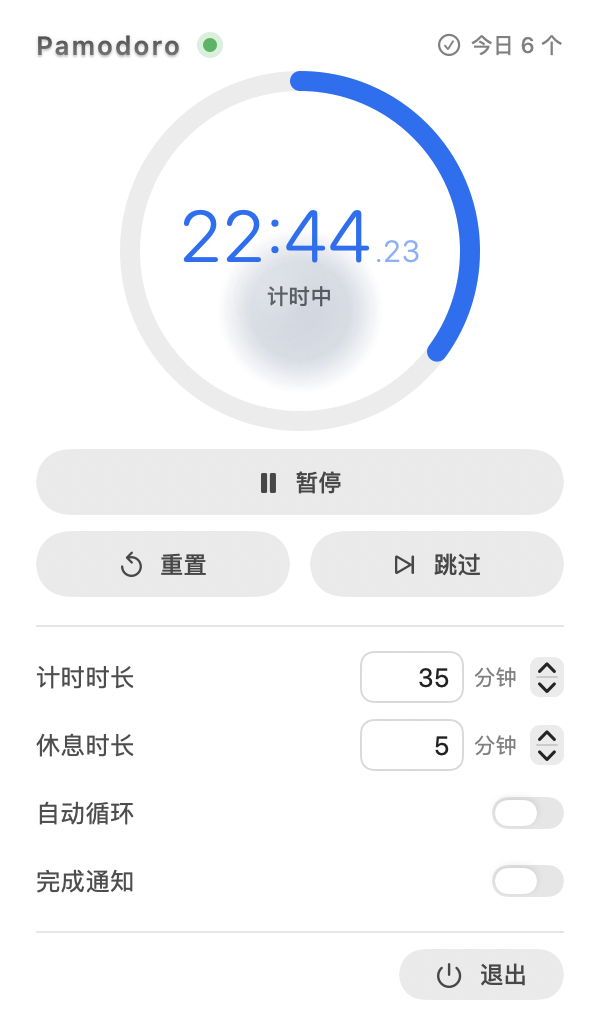
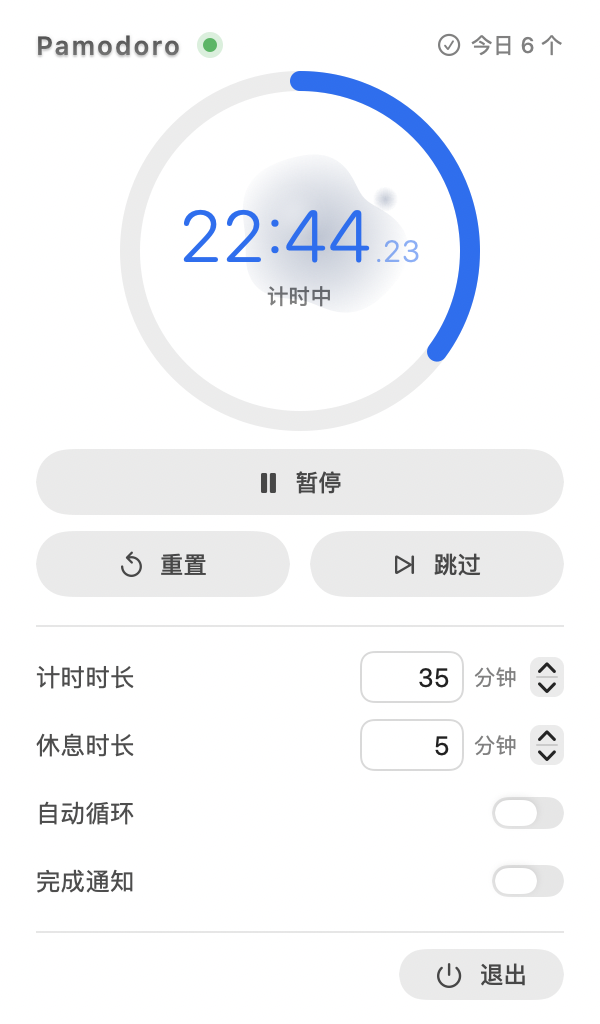
计时图标换成圆环箭头矢量图标；水银改为不规则流动液团+卫星液滴

Changed region(s): [[0.39, 0.1562, 0.66, 0.375]]

diff --git a/Sources/DialLiquid.swift b/Sources/DialLiquid.swift
@@ -1,8 +1,7 @@
 import SwiftUI
 
-/// 表盘背景里的「水银」——克制的液体感：
-/// 参照 iOS 26/27 Liquid Glass 的做法：材质本身是低对比、强扩散的透镜层，
-/// 高光含蓄、边缘完全化开，只靠缓慢的形变和位移让人感觉到「在流动」。
+/// 表盘背景里的水银：一个不规则、缓慢流动的液团 + 一颗绕行的卫星液滴。
+/// 边缘保持柔化（不出现硬轮廓），靠形变和位移体现「液体」。
 struct DialLiquid: View {
 
     @Environment(\.colorScheme) private var colorScheme
@@ -15,47 +14,63 @@ struct DialLiquid: View {
                 let dialRadius = min(size.width, size.height) / 2
                 let dark = colorScheme == .dark
 
-                // 缓慢漂移（周期约 40 秒，几乎察觉不到但一直在动）
-                let driftX = sin(t * 0.155) * dialRadius * 0.22
-                let driftY = center.y + dialRadius * 0.30 + cos(t * 0.115) * dialRadius * 0.10
-                let blobCenter = CGPoint(x: center.x + driftX, y: driftY)
-                let blobRadius = dialRadius * 0.52
+                let body = dark ? Color(white: 0.94) : Color(red: 0.44, green: 0.51, blue: 0.63)
+                let alpha: Double = dark ? 0.34 : 0.46
 
-                // 有机外形：边缘缓慢起伏，但整体仍是一团
+                // 主液团：漂移 + 不规则形变
+                let cx = center.x + CGFloat(sin(t * 0.21) * dialRadius * 0.16)
+                let cy = center.y + CGFloat(cos(t * 0.17) * dialRadius * 0.14)
+                let baseR = dialRadius * 0.46
+
                 var path = Path()
-                let steps = 160
+                let steps = 180
                 for i in 0...steps {
                     let angle = Double(i) / Double(steps) * 2 * Double.pi
                     let wobble = 1.0
-                        + 0.045 * sin(2 * angle + t * 0.18)
-                        + 0.030 * sin(3 * angle - t * 0.13)
-                    let radius = blobRadius * wobble
-                    let point = CGPoint(x: blobCenter.x + CGFloat(cos(angle) * radius),
-                                        y: blobCenter.y + CGFloat(sin(angle) * radius))
+                        + 0.12 * sin(2 * angle + t * 0.9)
+                        + 0.08 * sin(3 * angle - t * 0.7)
+                        + 0.05 * sin(5 * angle + t * 1.3)
+                    let r = baseR * wobble
+                    let point = CGPoint(x: cx + CGFloat(cos(angle) * r),
+                                        y: cy + CGFloat(sin(angle) * r))
                     if i == 0 { path.move(to: point) } else { path.addLine(to: point) }
                 }
                 path.closeSubpath()
 
-                // 本体：低对比的银灰，径向在边缘之前就淡出（不出现硬边）
-                let core = dark ? Color(white: 0.92) : Color(red: 0.52, green: 0.58, blue: 0.68)
-                let body = Gradient(stops: [
-                    .init(color: core.opacity(dark ? 0.30 : 0.42), location: 0.00),
-                    .init(color: core.opacity(dark ? 0.24 : 0.34), location: 0.55),
-                    .init(color: core.opacity(0.0), location: 0.92),
+                let bodyGradient = Gradient(colors: [
+                    body.opacity(alpha),
+                    body.opacity(alpha * 0.55),
+                    body.opacity(0.0),
                 ])
-                context.fill(path, with: .radialGradient(body,
-                                                         center: blobCenter,
+                context.fill(path, with: .radialGradient(bodyGradient,
+                                                         center: CGPoint(x: cx, y: cy),
                                                          startRadius: 0,
-                                                         endRadius: blobRadius * 1.02))
+                                                         endRadius: baseR * 1.18))
 
-                // 含蓄的高光：一块柔和的偏移亮部，随液体缓慢移动
+                // 卫星液滴：绕着主液团缓慢绕行
+                let satelliteRadius = baseR * (0.20 + 0.04 * sin(t * 0.5))
+                let sx = cx + CGFloat(cos(t * 0.31) * baseR * 0.92)
+                let sy = cy + CGFloat(sin(t * 0.27) * baseR * 0.92)
+                let satelliteGradient = Gradient(colors: [
+                    body.opacity(alpha * 0.9),
+                    body.opacity(0.0),
+                ])
+                context.fill(Path(ellipseIn: CGRect(x: sx - satelliteRadius,
+                                                    y: sy - satelliteRadius,
+                                                    width: satelliteRadius * 2,
+                                                    height: satelliteRadius * 2)),
+                             with: .radialGradient(satelliteGradient,
+                                                   center: CGPoint(x: sx, y: sy),
+                                                   startRadius: 0,
+                                                   endRadius: satelliteRadius))
+
+                // 高光：跟随主液团缓慢移动，增加水银的镜面感
                 var highlight = context
-                highlight.addFilter(.blur(radius: 9))
-                let hlRadius = blobRadius * 0.34
-                let hlCenter = CGPoint(x: blobCenter.x - blobRadius * 0.26,
-                                       y: blobCenter.y - blobRadius * 0.24)
+                highlight.addFilter(.blur(radius: 4))
+                let hlRadius = baseR * 0.30
+                let hlCenter = CGPoint(x: cx - baseR * 0.30, y: cy - baseR * 0.28)
                 let hlGradient = Gradient(colors: [
-                    Color.white.opacity(dark ? 0.26 : 0.62),
+                    Color.white.opacity(dark ? 0.16 : 0.55),
                     Color.white.opacity(0.0),
                 ])
                 highlight.fill(Path(ellipseIn: CGRect(x: hlCenter.x - hlRadius,
@@ -67,11 +82,9 @@ struct DialLiquid: View {
                                                      startRadius: 0,
                                                      endRadius: hlRadius))
             }
-            // 整体再糊一层：边缘彻底化进背景，只在明暗上留下流动的痕迹
-            .blur(radius: 7)
+            .blur(radius: 3)
         }
         .clipShape(Circle())
         .allowsHitTesting(false)
-        .opacity(0.95)
     }
 }

diff --git a/Sources/StatusGlyph.swift b/Sources/StatusGlyph.swift
@@ -1,0 +1,59 @@
+import AppKit
+
+/// 状态栏用的矢量模板图标（16pt 画布，字形约 14pt）。
+enum StatusGlyph {
+
+    /// 计时：带箭头的圆环 + 指针
+    static let timer: NSImage = make { _ in
+        NSColor.black.setStroke()
+        NSColor.black.setFill()
+
+        let center = NSPoint(x: 8.0, y: 8.0)
+        let radius: CGFloat = 5.4
+
+        // 圆环：从 -21° 逆时针画 301°，在右下留出缺口放箭头
+        let arc = NSBezierPath()
+        arc.appendArc(withCenter: center, radius: radius,
+                      startAngle: -21, endAngle: -80, clockwise: false)
+        arc.lineWidth = 1.55
+        arc.lineCapStyle = .round
+        arc.stroke()
+
+        // 箭头：在 -21° 处，沿逆时针切线方向
+        let angle = -21.0 * Double.pi / 180.0
+        let tip = NSPoint(x: center.x + CGFloat(cos(angle)) * radius,
+                          y: center.y + CGFloat(sin(angle)) * radius)
+        let tangent = CGPoint(x: -sin(angle), y: cos(angle))
+        let normal = CGPoint(x: cos(angle), y: sin(angle))
+        let arrow = NSBezierPath()
+        arrow.move(to: NSPoint(x: tip.x + tangent.x * 2.0, y: tip.y + tangent.y * 2.0))
+        arrow.line(to: NSPoint(x: tip.x + normal.x * 1.5, y: tip.y + normal.y * 1.5))
+        arrow.line(to: NSPoint(x: tip.x - normal.x * 1.5, y: tip.y - normal.y * 1.5))
+        arrow.close()
+        arrow.fill()
+
+        // 指针
+        let longHand = NSBezierPath()
+        longHand.move(to: center)
+        longHand.line(to: NSPoint(x: center.x, y: center.y + 3.9))
+        longHand.lineWidth = 1.45
+        longHand.lineCapStyle = .round
+        longHand.stroke()
+
+        let shortHand = NSBezierPath()
+        shortHand.move(to: center)
+        shortHand.line(to: NSPoint(x: center.x + 2.7, y: center.y - 2.1))
+        shortHand.lineWidth = 1.45
+        shortHand.lineCapStyle = .round
+        shortHand.stroke()
+    }
+
+    private static func make(_ draw: @escaping (NSRect) -> Void) -> NSImage {
+        let image = NSImage(size: NSSize(width: 16, height: 16), flipped: false) { rect in
+            draw(rect)
+            return true
+        }
+        image.isTemplate = true
+        return image
+    }
+}

diff --git a/Sources/main.swift b/Sources/main.swift
@@ -41,7 +41,7 @@ final class AppDelegate: NSObject, NSApplicationDelegate, NSPopoverDelegate {
     private static var statusItemLength: CGFloat {
         let font = NSFont.monospacedDigitSystemFont(ofSize: 12.5, weight: .regular)
         let textWidth = ceil(NSAttributedString(string: "888:88", attributes: [.font: font]).size().width)
-        let timerIconWidth = ceil(StatusIcon.face.size.width)
+        let timerIconWidth = ceil(StatusIcon.timer.size.width)
         let coffeeIconWidth = ceil(StatusIcon.coffee.size.width)
         // 两种状态都是「图标 + 时间」，取更宽的一档
         return max(timerIconWidth, coffeeIconWidth) + textWidth + 20
@@ -59,7 +59,7 @@ final class AppDelegate: NSObject, NSApplicationDelegate, NSPopoverDelegate {
             let font = NSFont.monospacedDigitSystemFont(ofSize: 12.5, weight: .regular)
             button.attributedTitle = NSAttributedString(string: " " + timeText, attributes: [.font: font])
         }
-        let icon = isRest ? StatusIcon.coffee : StatusIcon.face
+        let icon = isRest ? StatusIcon.coffee : StatusIcon.timer
         if button.image !== icon {
             button.image = icon
         }
@@ -266,7 +266,7 @@ final class AppDelegate: NSObject, NSApplicationDelegate, NSPopoverDelegate {
 
 
         if let prefix = env["POMODORO_DUMP_ICONS"] {
-            let icons: [(String, NSImage)] = [("face", PixelIcon.face), ("coffee", PixelIcon.coffee)]
+            let icons: [(String, NSImage)] = [("timer", StatusGlyph.timer), ("coffee", PixelIcon.coffee)]
             for (name, icon) in icons {
                 let scale: CGFloat = 8
                 let size = NSSize(width: icon.size.width * scale, height: icon.size.height * scale)

diff --git a/Sources/StatusIcon.swift b/Sources/StatusIcon.swift
@@ -1,9 +1,9 @@
 import AppKit
 
-/// 菜单栏图标：8-bit 像素模板图，跟随菜单栏深浅色与高亮自动反色。
+/// 菜单栏图标：模板图，跟随菜单栏深浅色与高亮自动反色。
 enum StatusIcon {
-    /// 计时状态：像素笑脸
-    static let face: NSImage = PixelIcon.face
-    /// 休息状态：冒热气的咖啡杯
+    /// 计时状态：圆环箭头 + 指针
+    static let timer: NSImage = StatusGlyph.timer
+    /// 休息状态：冒热气的像素咖啡杯
     static let coffee: NSImage = PixelIcon.coffee
 }

diff --git a/README.md b/README.md
@@ -75,7 +75,7 @@ open /Applications/Pomodoro.app
 
 ## 功能
 
-- **菜单栏常驻倒计时**：计时状态是像素笑脸 + `24:59`，休息状态换成冒热气的像素咖啡杯 + `4:10`
+- **菜单栏常驻倒计时**：计时状态是圆环计时器图标 + `24:59`，休息状态换成冒热气的像素咖啡杯 + `4:10`
 - **毫秒显示**：面板里秒后面跟两位毫秒（`29:13.99`，50fps 刷新）；状态栏仍只显示到秒
 - **点击开面板**：环形进度、大号等宽时间、胶囊按钮；右键图标可直接退出
 - **点击表盘**：直接点圆形表盘即可开始 / 暂停 / 继续（悬停时光标变手型、状态文字提示当前动作）
@@ -116,16 +116,16 @@ rm -rf /Applications/Pomodoro.app
 
 - **状态栏**：`NSStatusItem` + 固定宽度（按两种像素图标里更宽的一档算），倒计时位数在
   `5:00` / `25:00` / `180:00` 之间变化都不会让 item 伸缩——否则锚定其上的面板会跟着左右跳。
-- **状态栏图标**：`PixelIcon` 用 16×16 字符画渲染成模板位图（每格 2×2 设备像素，2x 屏上边缘是硬的）——
-  计时是一个像素笑脸（参考图简化版），休息是冒热气的咖啡杯；模板渲染，深浅色自动反色。
+- **状态栏图标**：计时用 `StatusGlyph` 矢量绘制的「圆环箭头 + 指针」计时器（16pt 画布），
+  休息用 `PixelIcon` 的 8-bit 咖啡杯；两者都是模板图，深浅色与高亮自动反色。
 - **面板**：`NSPopover` + SwiftUI。`NSPopover` 自带的菜单栏定位会把面板顶出屏幕上沿
   （顶部被裁），因此另做了屏幕几何校正，把面板夹在图标正下方与可见区域内。
 - **统一配色**：表盘与主按钮在任何状态都是「浅色底 + 强调色文字 + 细描边」，
   状态差异交给左上角运行灯（绿 = 计时中，红 = 暂停 / 待机）和进度环；深色模式换成深色底。
 - **标题**：左上角 `Pamodoro` 做了刻字质感——深色字面 + 下缘高光 + 上缘暗影。
-- **表盘液体**：`DialLiquid` 用 `TimelineView(.animation)` + `Canvas` 画一团**低对比、强扩散**的
-  水银——单一大液滴以约 40 秒周期缓慢漂移、边缘极轻地起伏，径向渐变在边缘之前就淡出，
-  再叠 13pt 模糊整体化进背景；只有缓慢移动的明暗，没有清晰轮廓。深色模式自动降低亮度。
+- **表盘液体**：`DialLiquid` 用 `TimelineView(.animation)` + `Canvas` 画一团**不规则的流动水银**——
+  多边形路径按 2/3/5 阶正弦叠加做形变（±12%），整体缓慢漂移，旁边还有一颗绕行的卫星液滴；
+  径向渐变 + 3pt 模糊让边缘柔化，高光跟随移动，深色模式自动降亮度。
 - **计时状态机**：单一 `Timer`（20ms 间隔）驱动 `remaining`，毫秒由剩余时间直接算出；
   阶段切换集中在 `finishPhase()`，跨天归零用「下一个北京时间零点」的一次性 Timer 驱动。
 - **提示音**：优先用 `AVAudioPlayer` 播放 bundle 里的 `pomo-chime.mp3`，取它的 `duration`
@@ -146,7 +146,8 @@ rm -rf /Applications/Pomodoro.app
 │   ├── PomodoroEngine.swift  # 计时状态机 + 持久化 + 每日归零
 │   ├── PopoverView.swift     # SwiftUI 面板
 │   ├── DialLiquid.swift      # 表盘里的水银液体
-│   ├── PixelIcon.swift       # 8-bit 像素图标（笑脸 / 咖啡杯）
+│   ├── PixelIcon.swift       # 8-bit 像素图标（咖啡杯）
+│   ├── StatusGlyph.swift     # 矢量计时器图标
 │   ├── StatusIcon.swift      # 菜单栏图标入口
 │   ├── SoundFX.swift         # 按钮点击音
 │   └── WatchBeep.swift       # 结束提示音（含合成兜底）
